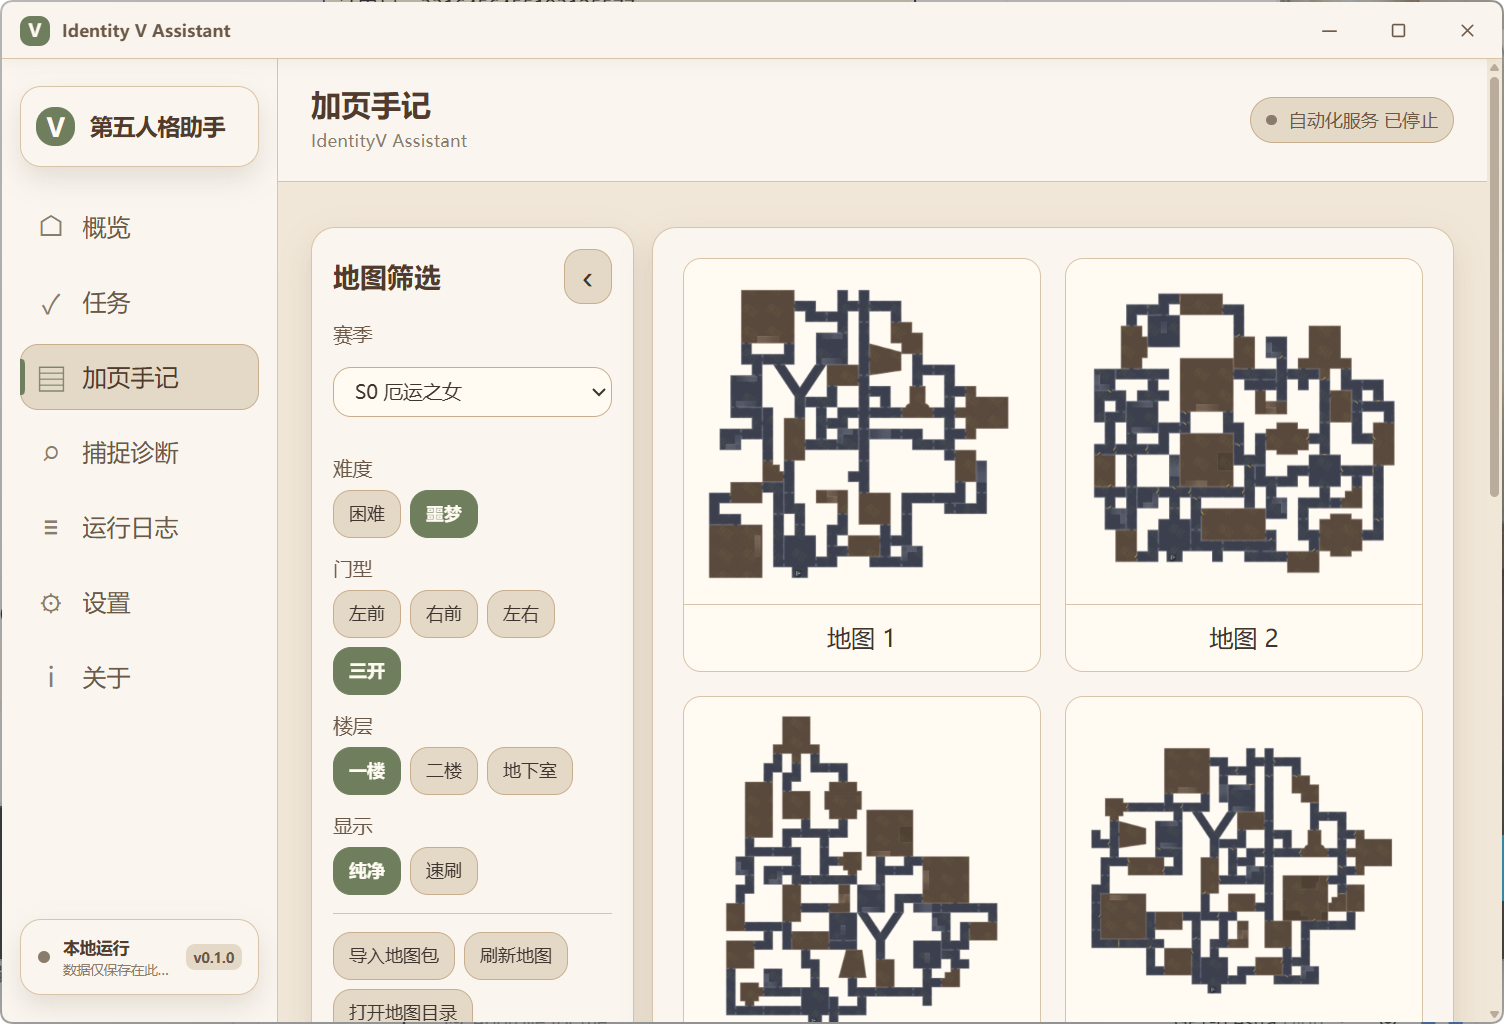
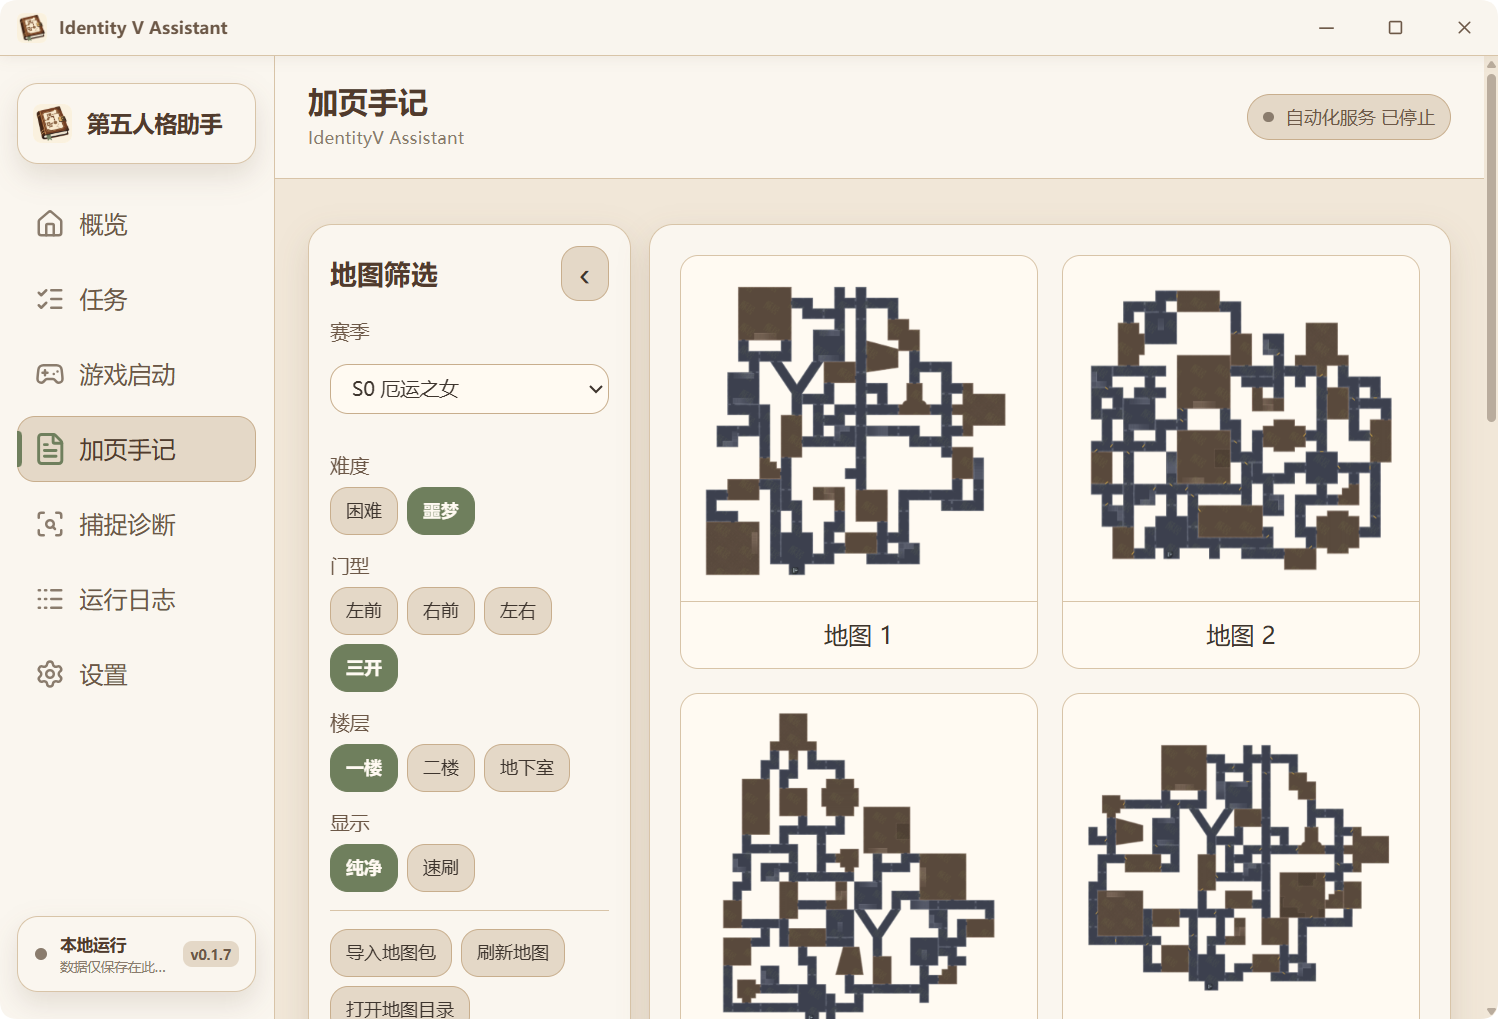
docs: refresh bilingual README header and preview images

diff --git a/.scratch/release-0.1.8/issues/02-readme-presentation.md b/.scratch/release-0.1.8/issues/02-readme-presentation.md
@@ -1,0 +1,19 @@
+# README presentation and authorized merge
+
+Status: resolved
+Type: task
+
+## Progress
+
+- User supplied two replacement screenshots; copy original bytes to docs/images/overview.png and journal.png, shared by both READMEs. The screenshots intentionally show the user's existing 0.1.7 UI; do not retouch version text.
+- Match the reference's centered icon/title, concise description, navigation and badges using this project's existing book icon, real GPL-3.0-only license and installed stack. No copied flower branding, fabricated star count, or unsupported documentation links.
+- The user explicitly authorized merge after checks pass and requested no more questions. Existing draft stays draft; merge must retain/freeze SNAPSHOT-v0.1.8. These are documentation changes only, so the verified installer remains built from 7eabc9c.
+- Check exact image hashes, local links and real GitHub-rendered Markdown layout in both languages. Await CI and review before merge.
+
+## Verification and merge gate
+
+- Both replacement PNGs are byte-identical to the user attachments: overview 1499x1018, SHA-256 714385fe847cdb4e490d473218d8ee950d346cb1b6863fe0947e938f11d2fcc4; journal 1498x1019, SHA-256 ed1890484124e86d7c06c86f745b41b7d46016b6a141c0631146ad350404b687.
+- Both READMEs passed GitHub's Markdown API rendering. Local browser inspection of that HTML with GitHub-like typography confirms centered headings, loaded logo/screenshots/seven badges, correct GPL-3.0-only/React 18/Tauri 2/Rust 2021/Python 3.12 labels, and no horizontal overflow at 390px. Actual badge release is v0.1.7 until the user publishes the draft; no fabricated stars or future release count.
+- Local navigation targets exist. `git diff --check` passes. These are documentation/image-only changes; no extra application rebuild or native execution is needed.
+- Merge PR #1 only after its latest checks pass, retaining the SNAPSHOT branch. Record merge outcome on GitHub and in the final response; do not append commits or synchronize this branch after merge.
+- After merge, update the existing Draft Release's full notes and only its latest.json metadata asset to include the README change. Keep installer/signature/checksum bytes and actual build commit 7eabc9c unchanged. Archive old metadata first, recalculate all body hashes, verify draft=true and unchanged public Latest. The user alone publishes.

diff --git a/README_EN.md b/README_EN.md
@@ -1,8 +1,35 @@
-# Identity V Assistant
+<p align="center">
+  <img src="src-tauri/icons/128x128@2x.png" alt="Identity V Assistant" width="128" height="128">
+</p>
 
-**Language / 语言:** [中文](README.md) | English
+<h1 align="center">Identity V Assistant · 第五人格助手</h1>
 
-A Windows desktop assistant for Identity V, with a game launcher, visual automation tasks and journal map browsing. The interface supports Chinese and English; settings and map packs stay on the local machine.
+<p align="center">
+  Game launcher · Visual automation · Journal maps<br>
+  A Windows desktop assistant built with Tauri 2, React, Rust and Python
+</p>
+
+<p align="center">
+  <a href="https://github.com/WaltomAdaam2/IdentityV-Assistant/issues">Report an issue</a> · <a href="https://github.com/WaltomAdaam2/IdentityV-Assistant/releases">Changelog</a><br>
+  <a href="#install-and-start">Quick start</a> · <a href="docs/README_LOGIC_EN.md">Feature guide</a> · <a href="docs/development.md">Build guide</a>
+</p>
+
+<p align="center">
+  <a href="https://github.com/WaltomAdaam2/IdentityV-Assistant/releases"><img src="https://img.shields.io/github/v/release/WaltomAdaam2/IdentityV-Assistant?color=70815a" alt="Latest release"></a>
+  <a href="LICENSE"><img src="https://img.shields.io/badge/License-GPL--3.0--only-70815a" alt="License: GPL-3.0-only"></a>
+  <a href="https://github.com/WaltomAdaam2/IdentityV-Assistant/stargazers"><img src="https://img.shields.io/github/stars/WaltomAdaam2/IdentityV-Assistant?style=social" alt="GitHub stars"></a>
+</p>
+
+<p align="center">
+  <img src="https://img.shields.io/badge/React-18-61dafb?logo=react" alt="React 18">
+  <img src="https://img.shields.io/badge/Tauri-2-24c8db?logo=tauri" alt="Tauri 2">
+  <img src="https://img.shields.io/badge/Rust-2021-dea584?logo=rust" alt="Rust edition 2021">
+  <img src="https://img.shields.io/badge/Python-3.12-3776ab?logo=python&logoColor=white" alt="Python 3.12">
+</p>
+
+<p align="center"><a href="README.md">中文</a> · <strong>English</strong></p>
+
+---
 
 <p align="center">
   <img src="docs/images/overview.png" alt="Identity V Assistant interface" width="850">

diff --git a/README.md b/README.md
@@ -1,8 +1,35 @@
-# Identity V Assistant
+<p align="center">
+  <img src="src-tauri/icons/128x128@2x.png" alt="Identity V Assistant" width="128" height="128">
+</p>
 
-**语言 / Language:** 中文 | [English](README_EN.md)
+<h1 align="center">第五人格助手 Identity V Assistant</h1>
 
-Windows 桌面端的《第五人格》助手，提供游戏启动、视觉自动化任务和加页手记地图浏览。界面支持中文与英文，配置和地图保存在本机。
+<p align="center">
+  游戏启动 · 视觉自动化 · 加页手记地图<br>
+  基于 Tauri 2 + React + Rust + Python 构建的 Windows 桌面助手
+</p>
+
+<p align="center">
+  <a href="https://github.com/WaltomAdaam2/IdentityV-Assistant/issues">反馈问题</a> · <a href="https://github.com/WaltomAdaam2/IdentityV-Assistant/releases">更新日志</a><br>
+  <a href="#安装与开始使用">快速开始</a> · <a href="docs/README_LOGIC.md">功能说明</a> · <a href="docs/development_zh.md">构建指南</a>
+</p>
+
+<p align="center">
+  <a href="https://github.com/WaltomAdaam2/IdentityV-Assistant/releases"><img src="https://img.shields.io/github/v/release/WaltomAdaam2/IdentityV-Assistant?color=70815a" alt="Latest release"></a>
+  <a href="LICENSE"><img src="https://img.shields.io/badge/License-GPL--3.0--only-70815a" alt="License: GPL-3.0-only"></a>
+  <a href="https://github.com/WaltomAdaam2/IdentityV-Assistant/stargazers"><img src="https://img.shields.io/github/stars/WaltomAdaam2/IdentityV-Assistant?style=social" alt="GitHub stars"></a>
+</p>
+
+<p align="center">
+  <img src="https://img.shields.io/badge/React-18-61dafb?logo=react" alt="React 18">
+  <img src="https://img.shields.io/badge/Tauri-2-24c8db?logo=tauri" alt="Tauri 2">
+  <img src="https://img.shields.io/badge/Rust-2021-dea584?logo=rust" alt="Rust edition 2021">
+  <img src="https://img.shields.io/badge/Python-3.12-3776ab?logo=python&logoColor=white" alt="Python 3.12">
+</p>
+
+<p align="center"><strong>中文</strong> · <a href="README_EN.md">English</a></p>
+
+---
 
 <p align="center">
   <img src="docs/images/overview.png" alt="Identity V Assistant 主界面" width="850">

diff --git a/.scratch/release-0.1.8/spec.md b/.scratch/release-0.1.8/spec.md
@@ -22,3 +22,9 @@ Use deterministic progress samples (steady, stalled, unknown size, reset), Rust 
 ## Delivery
 
 Implementation, signed packaging, independent review, CI and Draft Release preparation are complete; see the issue's final evidence. PR merge and formal publication remain the user's review actions, not automated steps.
+
+## User follow-up (2026-10-31)
+
+The user supplied replacement overview/journal screenshots and requested a centered README header like the reference, using this project's identity, actual stack/license and working navigation. Apply it to both languages without altering the supplied pixels.
+
+The user subsequently explicitly authorized merging the PR after checks pass. This supersedes the earlier leave-PR-open decision. Keep the existing 0.1.8 release as a draft for the user's personal publication, retain its verified binary build commit, and permanently freeze SNAPSHOT-v0.1.8 immediately after merge. Complete all branch edits and verification records before merge.

diff --git a/docs/releases/0.1.8.md b/docs/releases/0.1.8.md
@@ -8,6 +8,7 @@
 - 更新日志支持 Markdown 标题、列表、强调、代码和链接，保留可滚动阅读区域。
 - GitHub 直连标记为默认来源，保留 GH-Proxy、GHFast 与 ghproxy.net 手动选择。
 - 新增统一 PR 和 Release 格式文档；每版本独立 SNAPSHOT 分支，合并后永久保留并冻结。
+- 更新中英文 README 的居中项目介绍、导航、真实徽章和两张用户提供的演示图。
 
 ## 修复内容
 
